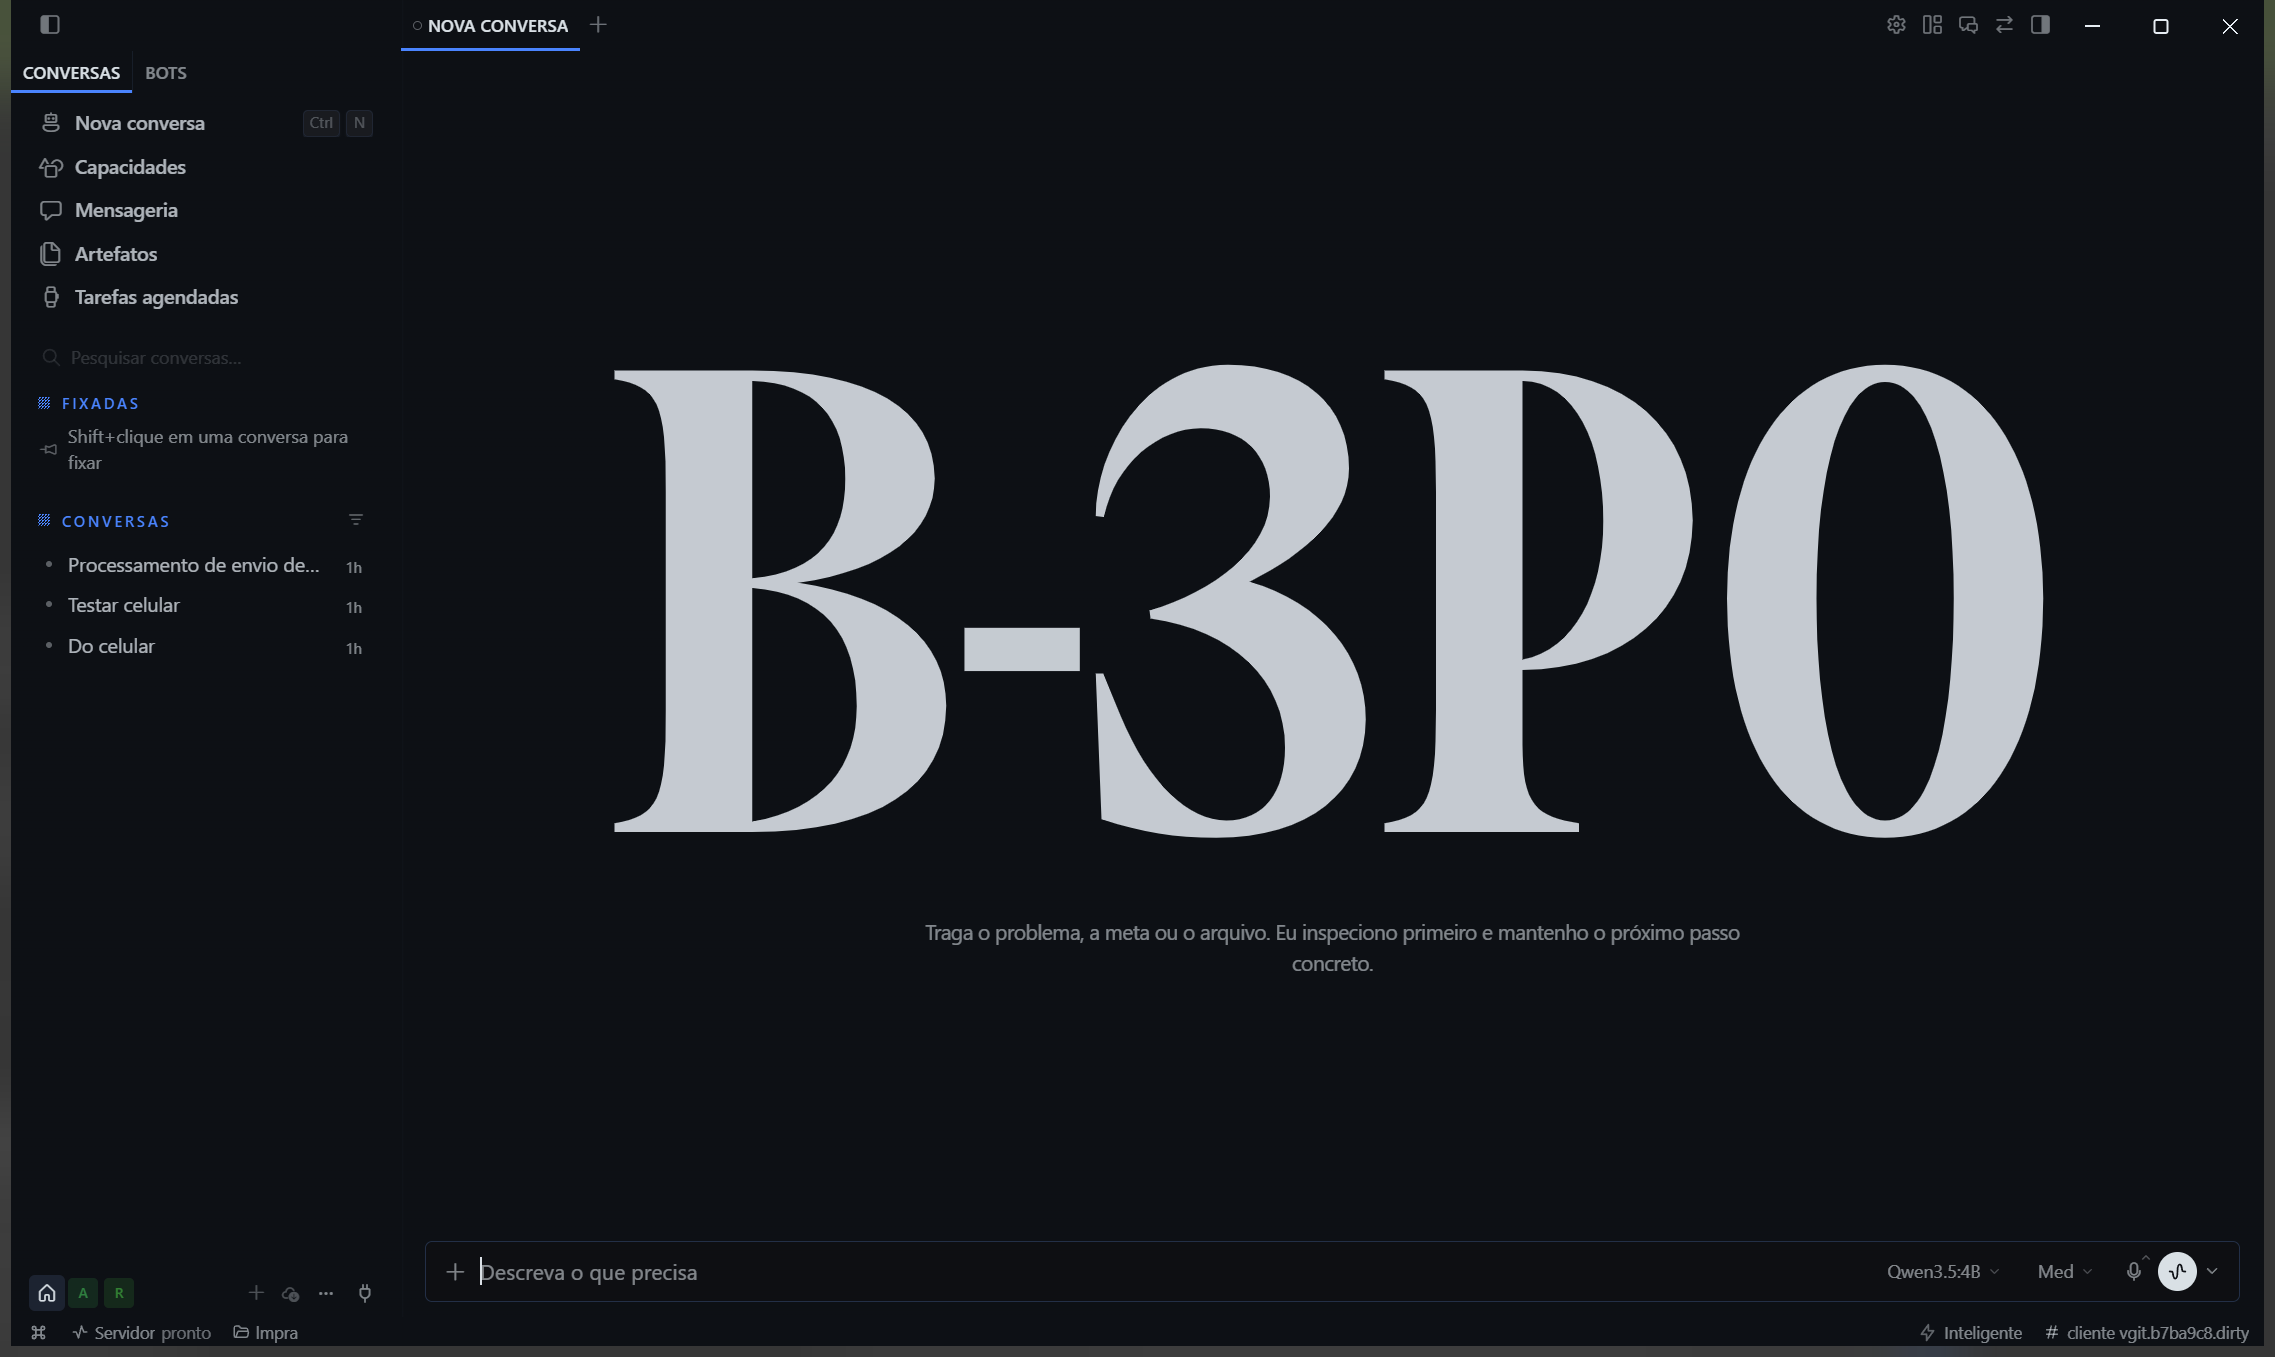
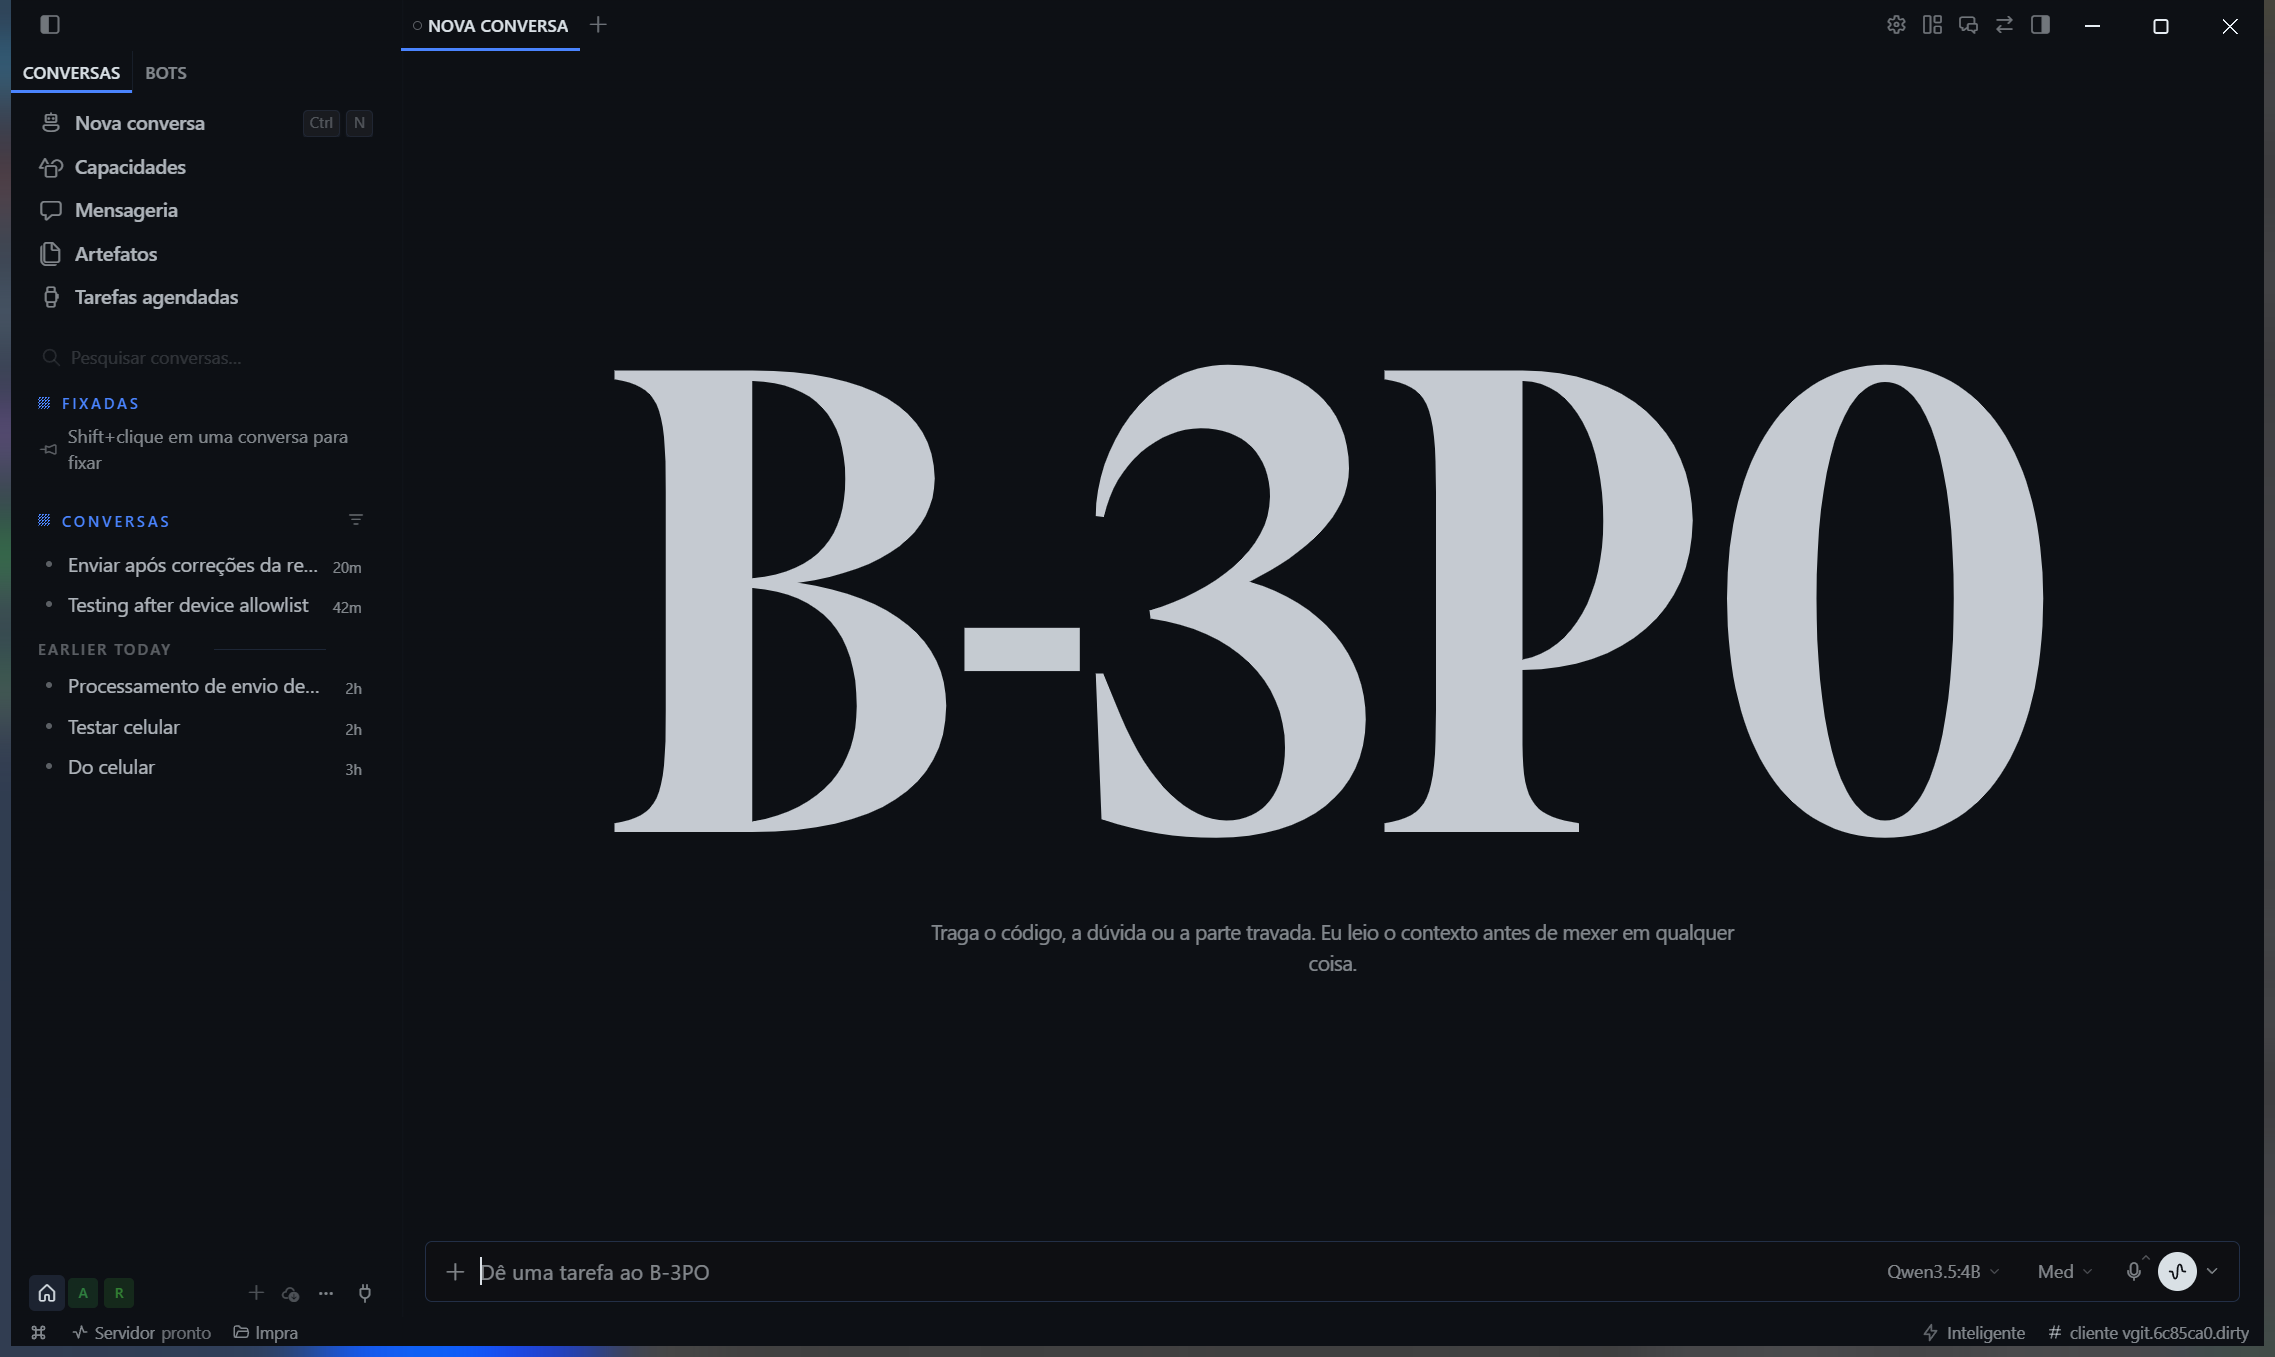
test(desktop): prova a secao de dispositivos no DOM + pacote reconstruido no commit
O que faltava na rodada anterior: prova de comportamento do painel novo. Agora existe
(src/app/settings/paired-devices-section.test.tsx, 5 testes com I18nProvider e o componente real):
- lista com rotulo, perfil, "nunca" quando nao ha ultimo uso e contagem de tickets;
- vazio explica como adicionar em vez de lista em branco;
- falha de leitura mostra mensagem + botao Atualizar que recarrega e lista;
- revogar: o primeiro clique NAO chama o backend, a confirmacao chama revokePairedDevice(dev-1) e a linha
  vira "revogado";
- aparelho ja revogado nao oferece revogar.

PACOTE: npm run build + run-electron-builder --win msix no commit b68bd72e; cache do builder removido
(senao o gate reprova em profile-archives); ARTIFACT-MANIFEST.md regenerado com os cinco hashes novos.
O binario abre como cliente remoto e renderiza a Home em pt-BR com as conversas reais (inclusive as
criadas pelo celular). Evidencia: docs/b3po/evidence/desktop-home-pt-br.png

RESSALVA: a captura e da Home, nao de Configuracoes > Conexoes salvas — nao ha automacao confiavel para
clicar dentro da janela Electron nesta sessao. A secao esta provada por teste de DOM; a captura dela fica
pendente e declarada.

gate 14 ok; tsc limpo.

diff --git a/apps/desktop/src/app/settings/paired-devices-section.test.tsx b/apps/desktop/src/app/settings/paired-devices-section.test.tsx
@@ -1,0 +1,104 @@
+import { fireEvent, render, screen, waitFor } from '@testing-library/react'
+import { beforeEach, describe, expect, it, vi } from 'vitest'
+
+const api = vi.hoisted(() => ({
+  listPairedDevices: vi.fn(),
+  revokePairedDevice: vi.fn()
+}))
+
+vi.mock('@/api/b3po-devices', () => api)
+
+import type { PairedDevice } from '@/api/b3po-devices'
+
+import { I18nProvider } from '@/i18n'
+
+import { PairedDevicesSection } from './paired-devices-section'
+
+const device = (over: Partial<PairedDevice> = {}): PairedDevice => ({
+  created_at: Date.UTC(2026, 10, 1),
+  device_id: 'dev-1',
+  label: 'Pixel do Leandro',
+  last_seen_at: null,
+  profile_id: 'revisor-codigo',
+  revoked: false,
+  tickets_minted: 3,
+  ...over
+})
+
+function renderSection() {
+  return render(
+    <I18nProvider>
+      <PairedDevicesSection />
+    </I18nProvider>
+  )
+}
+
+describe('dispositivos pareados (Configurações)', () => {
+  beforeEach(() => {
+    api.listPairedDevices.mockReset()
+    api.revokePairedDevice.mockReset()
+  })
+
+  it('lista o aparelho com perfil, último uso, inclusão e tickets', async () => {
+    api.listPairedDevices.mockResolvedValue({ devices: [device()] })
+
+    renderSection()
+
+    expect(await screen.findByText(/Pixel do Leandro/)).toBeTruthy()
+    expect(screen.getByText(/revisor-codigo/)).toBeTruthy()
+    expect(screen.getByText(/nunca/)).toBeTruthy()
+    expect(screen.getByText(/3/)).toBeTruthy()
+  })
+
+  it('explica o estado vazio em vez de mostrar uma lista em branco', async () => {
+    api.listPairedDevices.mockResolvedValue({ devices: [] })
+
+    renderSection()
+
+    await waitFor(() => {
+      expect(screen.getByText(/No phone paired yet|Nenhum celular pareado/)).toBeTruthy()
+    })
+  })
+
+  it('falha de leitura mostra a mensagem e um botão para tentar de novo', async () => {
+    api.listPairedDevices.mockRejectedValueOnce(new Error('offline'))
+    renderSection()
+
+    const refresh = await screen.findByRole('button', { name: /Refresh|Atualizar/ })
+    api.listPairedDevices.mockResolvedValue({ devices: [device()] })
+    fireEvent.click(refresh)
+
+    expect(await screen.findByText(/Pixel do Leandro/)).toBeTruthy()
+  })
+
+  it('revogar pede confirmação e só então chama o backend', async () => {
+    api.listPairedDevices.mockResolvedValue({ devices: [device()] })
+    api.revokePairedDevice.mockResolvedValue({ devices: [device({ revoked: true })] })
+
+    renderSection()
+
+    const first = await screen.findByRole('button', { name: /Revoke|Revogar/ })
+    fireEvent.click(first)
+
+    // primeiro clique só arma a confirmação: nada foi revogado ainda
+    expect(api.revokePairedDevice).not.toHaveBeenCalled()
+
+    const confirm = screen.getAllByRole('button', { name: /Revoke|Revogar/ })
+    fireEvent.click(confirm[confirm.length - 1]!)
+
+    await waitFor(() => {
+      expect(api.revokePairedDevice).toHaveBeenCalledWith('dev-1')
+    })
+    expect(await screen.findByText(/revoked|revogado/)).toBeTruthy()
+  })
+
+  it('não oferece revogar um aparelho já revogado', async () => {
+    api.listPairedDevices.mockResolvedValue({ devices: [device({ revoked: true })] })
+
+    renderSection()
+
+    await screen.findByText(/revoked|revogado/)
+
+    expect(screen.queryByRole('button', { name: /Revoke|Revogar/ })).toBeNull()
+  })
+})

diff --git a/docs/b3po/DESKTOP-RELEASE-REPORT.md b/docs/b3po/DESKTOP-RELEASE-REPORT.md
@@ -498,3 +498,34 @@ aqui, datas de construção, e a seção de assinatura declarada (MSIX não assi
 iOS ausente por bloqueio externo, macOS/Linux não construídos).
 
 Também corrigi a formatação da tabela: um `replace` meu tinha comido os backticks de fechamento dos nomes.
+
+## Rodada 75 — seção de dispositivos provada por teste de DOM e pacote reconstruído
+
+### Prova comportamental (o que faltava na rodada 74)
+
+`src/app/settings/paired-devices-section.test.tsx` monta o componente real com `I18nProvider` e exercita:
+
+| Caso | O que verifica |
+|---|---|
+| lista | rótulo, perfil, “nunca” quando não há último uso, contagem de tickets |
+| vazio | o texto explica como adicionar em vez de mostrar lista em branco |
+| falha de leitura | mensagem + botão **Atualizar** que recarrega e passa a listar |
+| revogação | primeiro clique **não** chama o backend; a confirmação chama `revokePairedDevice('dev-1')` e a linha vira “revogado” |
+| já revogado | não oferece botão de revogar |
+
+5 testes verdes. É prova de comportamento no DOM, não snapshot.
+
+### Pacote
+
+`npm run build` + `run-electron-builder --win msix` no commit `b68bd72e`; cache do builder removido (senão o
+gate reprova em `profile-archives`); `ARTIFACT-MANIFEST.md` regenerado com hashes novos dos cinco artefatos.
+
+O binário aberto como cliente remoto renderiza a Home em pt-BR com as conversas reais — inclusive as criadas
+pelo celular (“Enviar após correções da re…”, “Testing after device allowlist”, “Testar celular”, “Do
+celular”). Evidência atualizada: `docs/b3po/evidence/desktop-home-pt-br.png`.
+
+### Ressalva registrada
+
+A captura é da Home, **não** da tela de Configurações → Conexões salvas: não há automação confiável para
+clicar dentro da janela Electron nesta sessão (o `SetForegroundWindow` é recusado aqui). A seção está provada
+por teste de componente; a captura de tela dela fica pendente e declarada como tal.

diff --git a/docs/b3po/ARTIFACT-MANIFEST.md b/docs/b3po/ARTIFACT-MANIFEST.md
@@ -3,12 +3,12 @@
 Manifesto dos artefatos **deste** build. Manifesto com dado velho engana mais do que ajuda: os
 hashes abaixo foram calculados nesta máquina a partir dos arquivos listados; nada é estimado.
 
-commit `99c7a4fb96` · branch `b3po-brand` · 135 commits sobre `main` · gerado em 2026-11-03 19:47 UTC
+commit `b68bd72ec4` · branch `b3po-brand` · 137 commits sobre `main` · gerado em 2026-11-03 20:02 UTC
 
 | Plataforma | Formato | Arquivo | Tamanho | SHA-256 | Construído |
 |---|---|---|---|---|---|
[7 lines of base64/hex data omitted]

diff --git a/docs/b3po/AUTONOMOUS-EXECUTION-STATE.md b/docs/b3po/AUTONOMOUS-EXECUTION-STATE.md
@@ -7,7 +7,7 @@ Estado corrente do trabalho autônomo. Atualizado a cada rodada; é o que permit
 | Campo | Valor |
 |---|---|
 | Branch de produto | `b3po-brand` (a `main` segue espelho limpo do upstream) |
-| Commits DZ23 | 136 |
+| Commits DZ23 | 137 |
 | Gate do repositório | `python scripts/check` → 14 checks, ok |
 | Testes | desktop: bots 960 · i18n 104 · store/sdk 2307 · CRM 66 · mobile 101 (+5 live pulados) |
 | Status do produto | **NOT_READY** (há critérios abertos, listados abaixo) |
